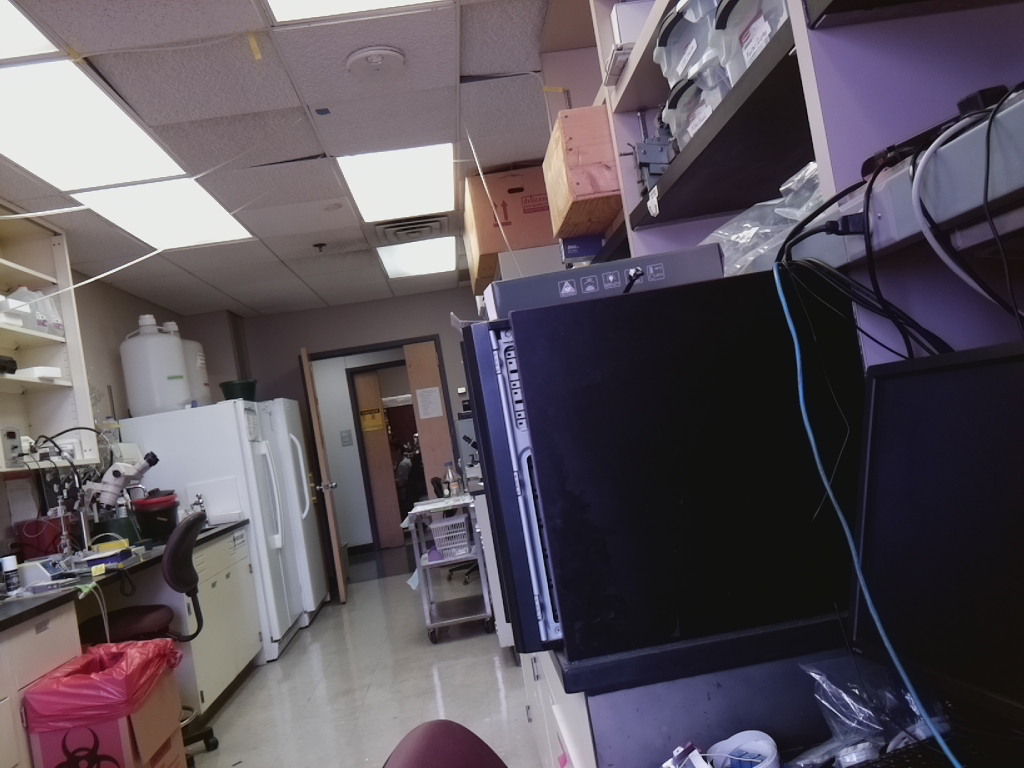
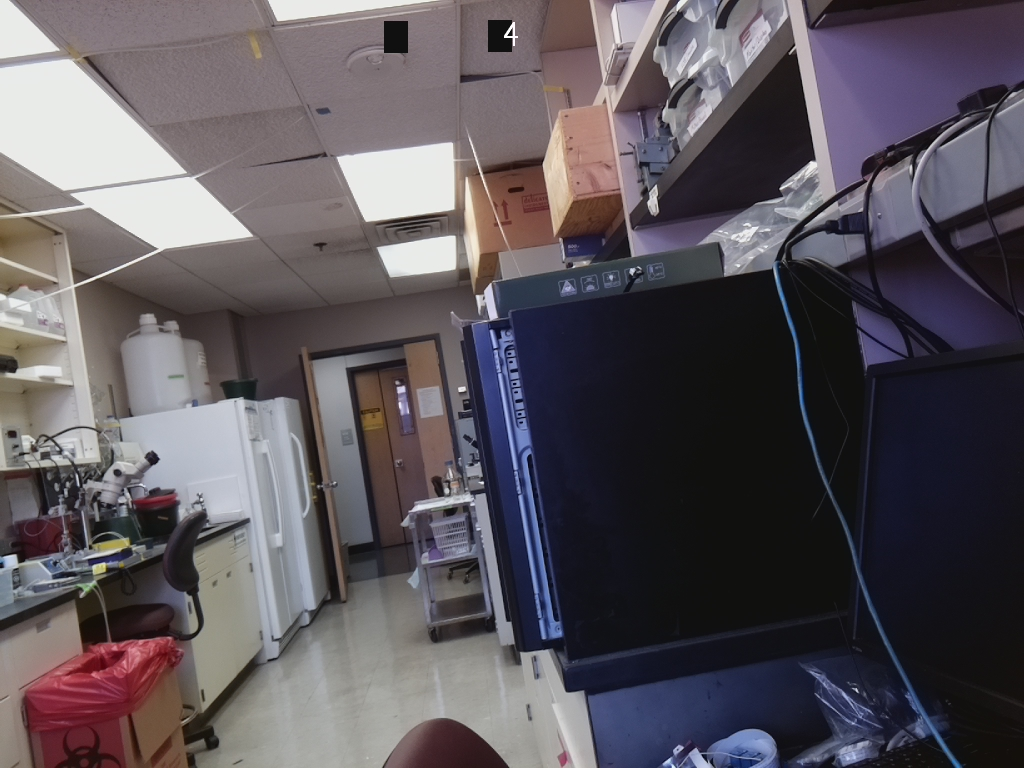
work

diff --git a/homecage_app/home.py b/homecage_app/home.py
@@ -154,24 +154,25 @@ class home:
 		#print('   Done initializing home.py')
 		logger.debug('finished home.init()')
 		
-	def startTrial(self):
+	def startTrial(self, now=time.time()):
+		print('startTrial now:', now)
 		# todo: make a trial file to log timing within a trial
 		logger.debug('startTrial')
-		startTime = datetime.now()
+		timeStr = time.strftime('%Y%m%d_%H%M%S', time.localtime(now))
 		self.trialNum += 1
-		self.trial['startTimeSeconds'] = time.time()		
-		self.trial['timeStamp'] = datetime.now().strftime('%Y%m%d_%H%M%S')
+		self.trial['startTimeSeconds'] = now
+		self.trial['startTimeStr'] = timeStr #datetime.now().strftime('%Y%m%d_%H%M%S')
 		self.trial['trialNum'] = self.trialNum
 		self.trial['epochNum'] = 0 # increment each time we make a new file
 		self.trial['frameNum'] = 0
 		self.trial['lastFrameTime'] = None
-		self.trial['frameTimes'] = []
+		self.trial['frameTimes'] = [] # relative to self.trial['startTimeSeconds']
 		self.trial['currentFile'] = 'None'
 		self.trial['lastStillTime'] = None
 		self.trial['timeRemaining'] = None 
 
-		dateStr = startTime.strftime('%Y%m%d')
-		timeStr = startTime.strftime('%H%M%S')
+		# todo: make trial a class and add its own log file (one per trial)
+		self.log(self, 'startTrial', '', '', 1, now=now)
 		
 	def newEpoch(self):
 		if self.trial['startTimeSeconds']:
@@ -182,6 +183,11 @@ class home:
 		logger.debug('stopTrial')
 		self.trial['startTimeSeconds'] = None # critical, using this to see if trial is running
 		self.trial['currentFile'] = 'None'
+		try:
+			#self.camera.annotate_background = picamera.Color('black')
+			self.camera.annotate_text = ''
+		except PiCameraClosed as e:
+			print(e)
 
 	def isState(self, thisState):
 		''' Return True if self.state == thisState'''
@@ -191,9 +197,11 @@ class home:
 		now = time.time()
 		if self.trial['startTimeSeconds'] is not None:
 			#todo: append time relative to self.trial['startTimeSeconds']
-			self.trial['frameNum'] += 1
-			self.trial['lastFrameTime'] = now
-			self.trial['frameTimes'].append(now)
+			frameNumber = self.trial['frameNum'] + 1
+			frameTime = now - self.trial['startTimeSeconds'] # relative to start
+			self.trial['frameNum'] = frameNumber
+			self.trial['lastFrameTime'] = frameTime
+			self.trial['frameTimes'].append(frameTime)
 			if self.camera:
 				#todo: fix annotation background
 				#todo: make sure we clear annotation background
@@ -202,24 +210,23 @@ class home:
 					self.camera.annotate_text = ' ' + str(self.trial['frameNum']) + ' ' 
 				except PiCameraClosed as e:
 					print(e)
-			#print('framePin_Callback()', now, self.trial['frameNum'])
-			logger.debug('triggerIn_Callback finished')
+			self.log(self, 'newFrame', '', '', frameNumber, now=now)
+			#logger.debug('frame_Callback finished')
 			
 	def triggerIn_Callback(self, pin):
-		#print('triggerIn_Callback')
-		self.startArmVideo()
-		logger.debug("triggerIn_Callback finished self.trial['frameNum']=" + str(self.trial['frameNum']))
+		now = time.time()
+		self.startArmVideo(now=now)
+		#logger.debug("triggerIn_Callback finished trial:" + str(self.trial['frameNum']))
 				
-	def log(self, event1, event2, event3, state):
+	def log(self, event1, event2, event3, state, now=time.time()):
 		# log events to a file
+		print('log now:', now)
 		delimStr = ','
 		eolStr = '\n'
 
-		epochSeconds = time.time()
-		startTime = datetime.now()
-		dateStr = startTime.strftime('%Y%m%d')
-		timeStr = startTime.strftime('%H%M%S')
-		logFile = startTime.strftime('%Y%m%d') + '.txt'
+		dateStr = time.strftime('%Y%m%d', time.localtime(now))
+		timeStr = time.strftime('%H:%M:%S', time.localtime(now))
+		logFile = dateStr + '.txt'
 		logFolder = os.path.join(self.videoPath, dateStr)
 		logPath = os.path.join(logFolder, logFile)
 		if not os.path.isfile(logPath):
@@ -229,7 +236,7 @@ class home:
 				oneLine = 'date' + delimStr + 'time' + delimStr + 'seconds' + delimStr + 'event1' + delimStr + 'event2' + delimStr + 'event3' + delimStr + 'state' + eolStr
 				file.write(oneLine)
 		with open(logPath,'a') as file:
-			oneLine = dateStr + delimStr + timeStr + delimStr + str(epochSeconds) + delimStr + str(event1) + delimStr + str(event2) + delimStr + str(event3) + delimStr + str(state) + eolStr
+			oneLine = dateStr + delimStr + timeStr + delimStr + str(now) + delimStr + str(event1) + delimStr + str(event2) + delimStr + str(event3) + delimStr + str(state) + eolStr
 			file.write(oneLine)
 		
 	def setParam(self, param, value):
@@ -471,12 +478,12 @@ class home:
 					self.camera.close()
 			self.lastResponse = 'Armed is ' + ('on' if onoff else 'off')
 	
-	def startArmVideo(self):
+	def startArmVideo(self, now=time.time()):
 		if not self.isState('armed'):
 			self.lastResponse = 'startArmVideo not allowed during ' + self.state
 		else:
 			self.state = 'armedrecording'
-			self.startTrial()
+			self.startTrial(now=now)
 			# start a background thread
 			thread = threading.Thread(target=self.armVideoTread, args=())
 			thread.daemon = True							# Daemonize thread
@@ -712,7 +719,7 @@ class home:
 	def convertVideo(self, videoFilePath, fps):
 		# at end of video recording, convert h264 to mp4
 		# also build a db.txt with videos in a folder
-		logger.debug(converting video:' + videoFilePath + ' ' + str(fps))
+		logger.debug('converting video:' + videoFilePath + ' fps:' + str(fps))
 		'''
 		cmd = './convert_video.sh ' + videoFilePath + ' ' + str(fps)
 		child = subprocess.Popen(cmd, shell=True)

diff --git a/homecage_app/homecage_app.py b/homecage_app/homecage_app.py
@@ -271,7 +271,7 @@ def whatismyip():
 if __name__ == '__main__':	
 	myip = whatismyip()
 	app.logger.debug('Flask server is running at: ' + 'http://' + str(myip) + ':5000')
-	debug = False
+	debug = True
 	app.run(host=myip, port=5000, debug=debug, threaded=True)
 	
 	
